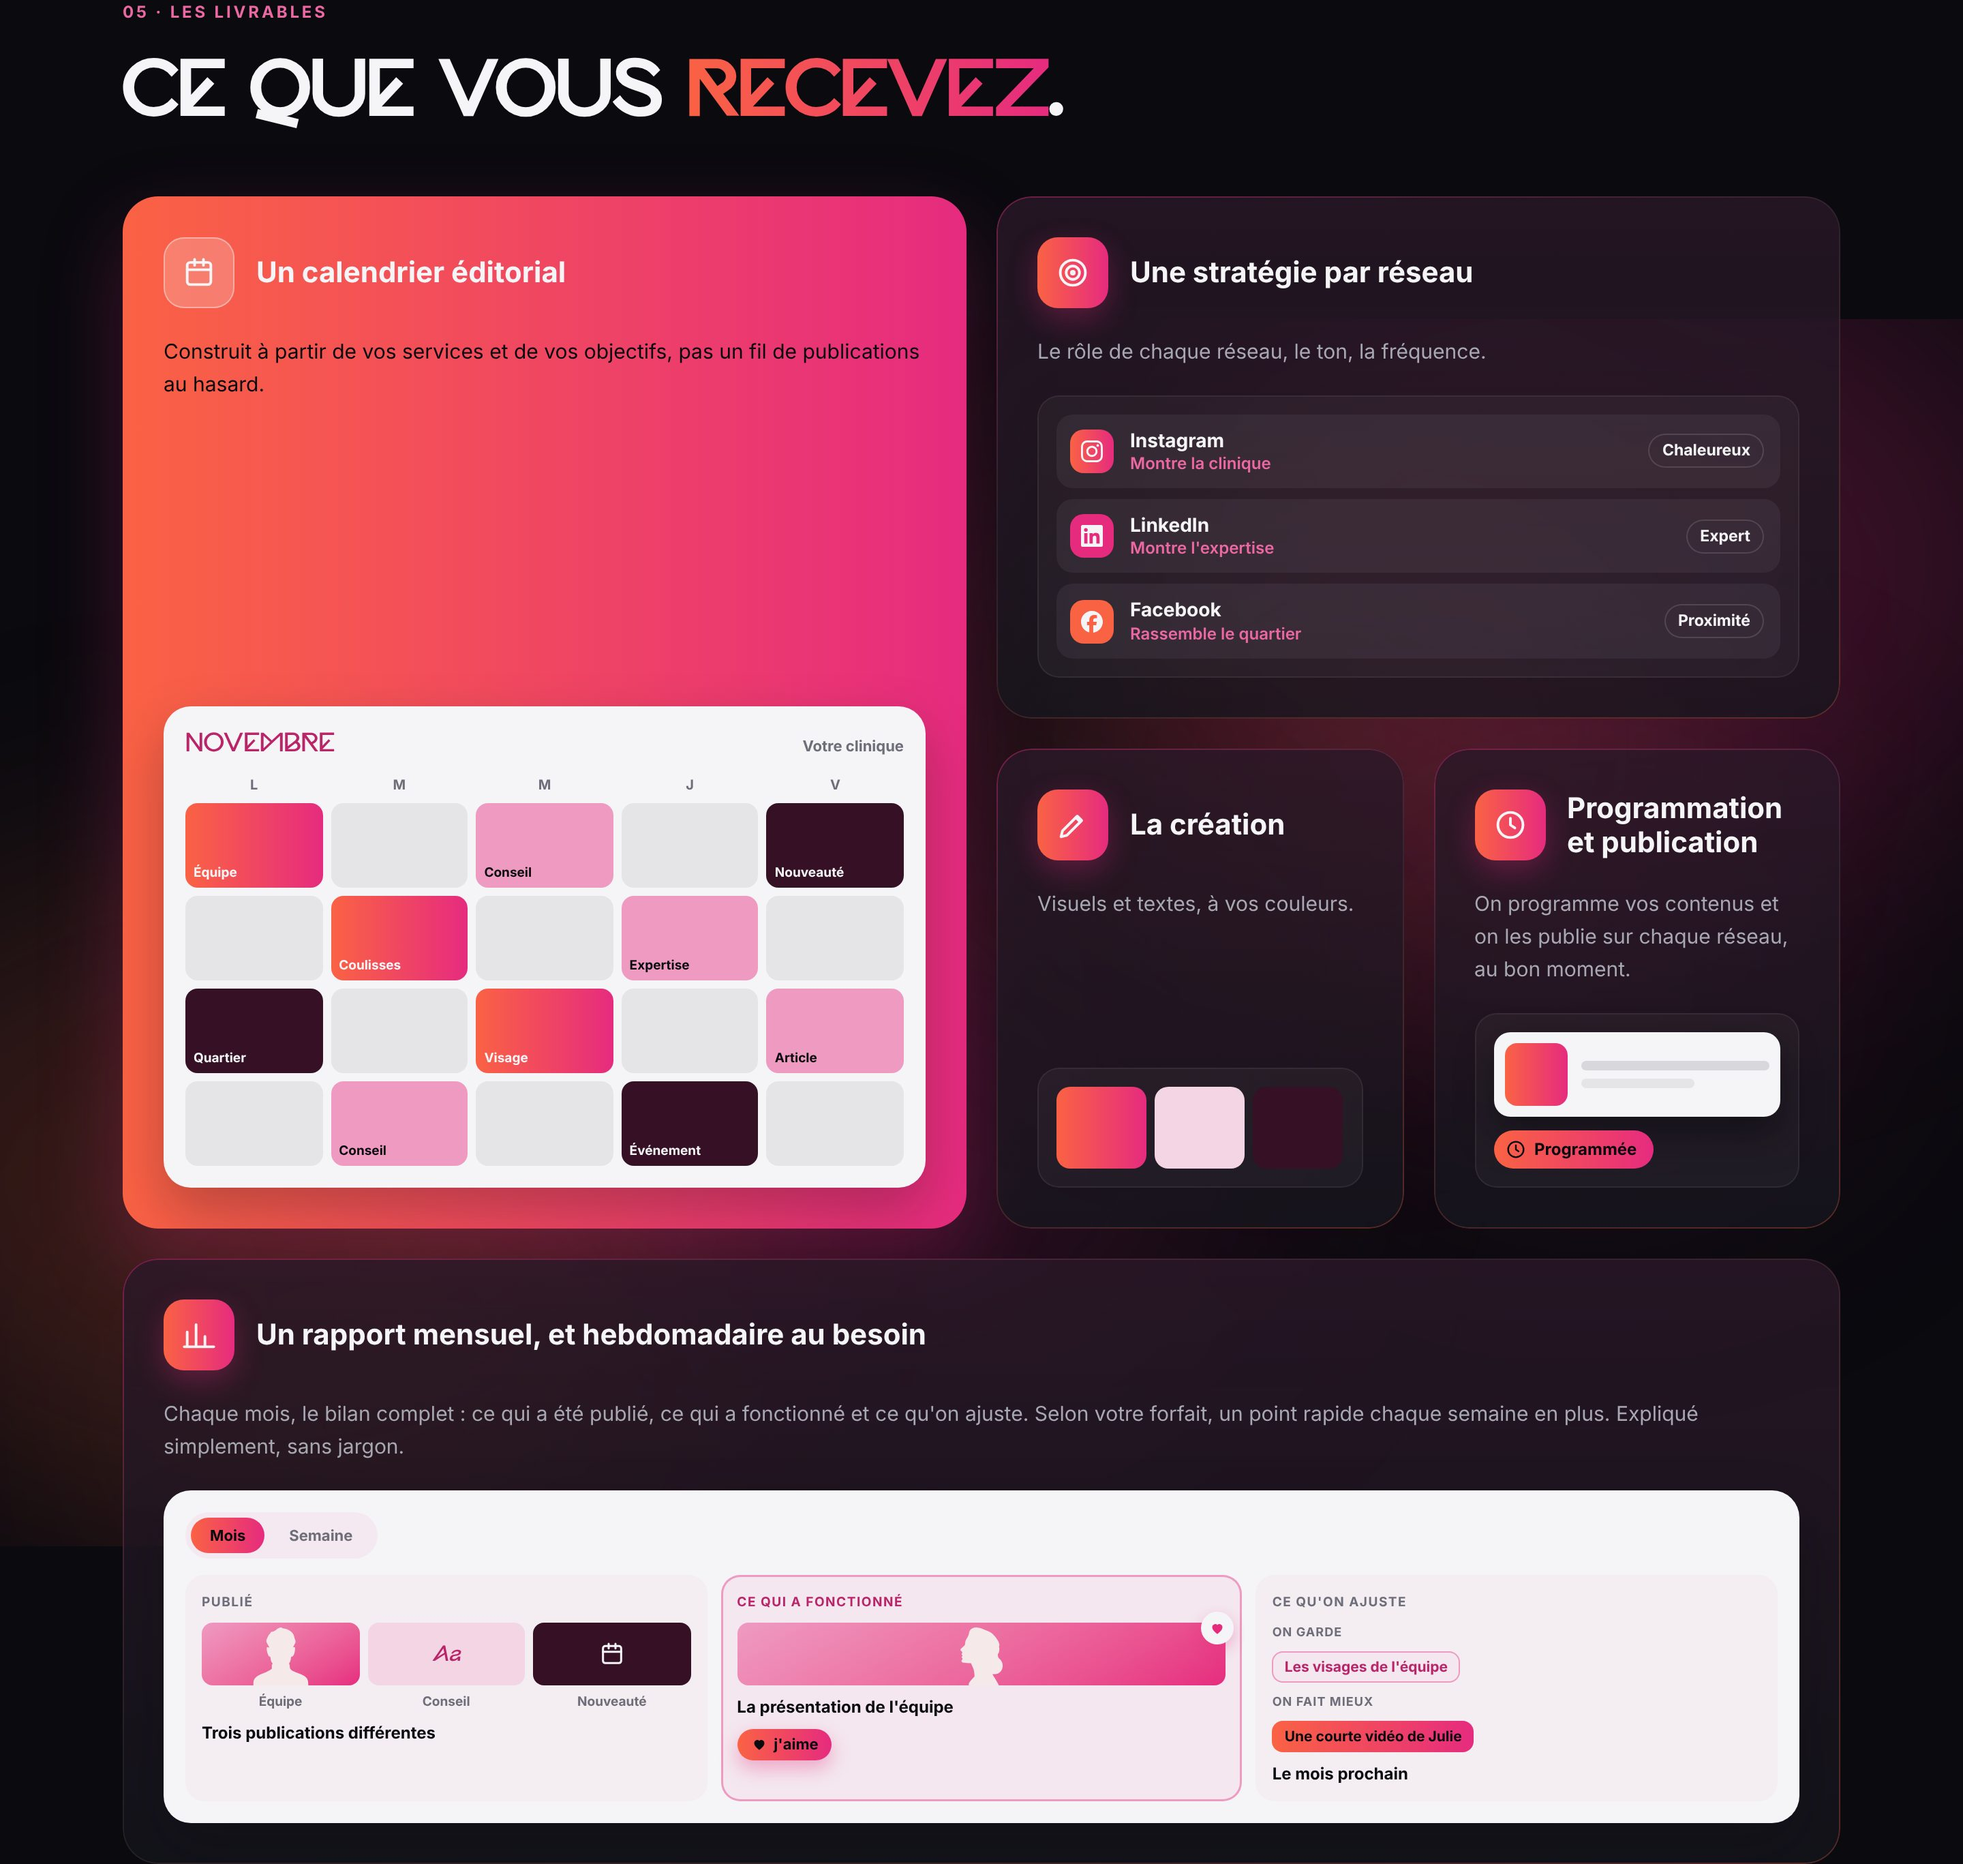
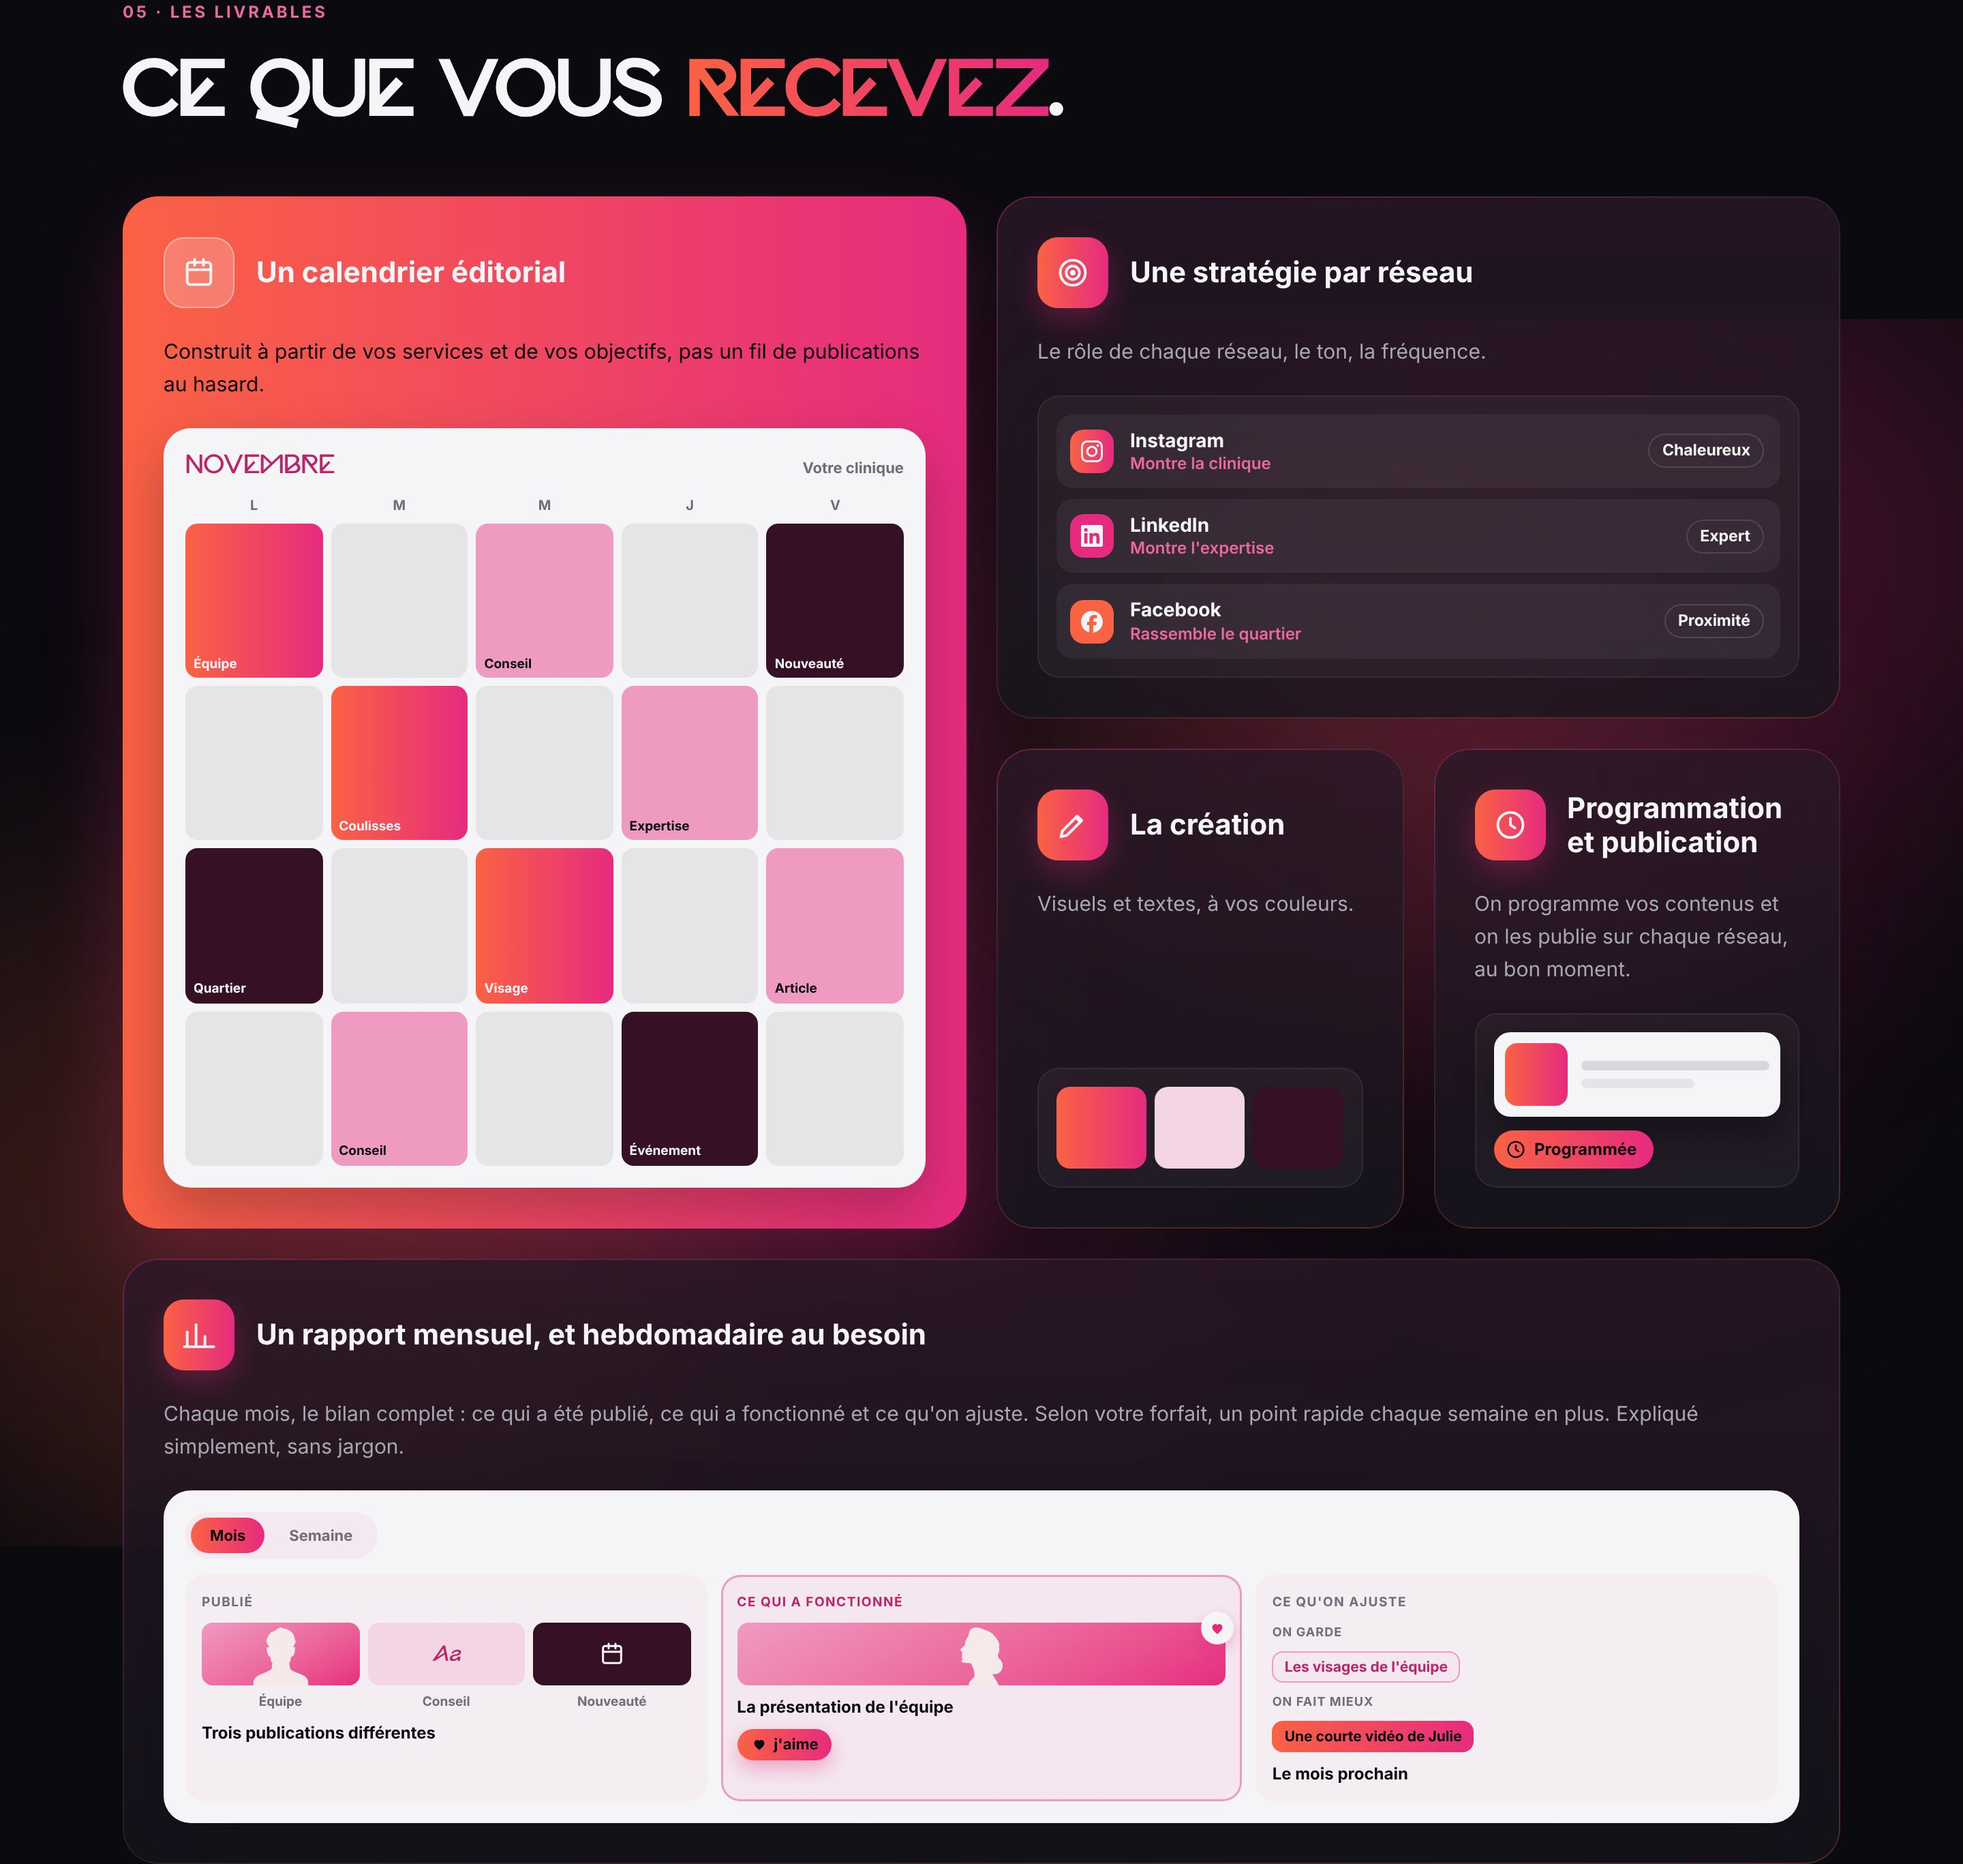
Réseaux sociaux : calendrier qui remplit sa carte ; Publicité « Fait venir »
- Section 05, carte « Un calendrier éditorial » : dès 1100 px, la hauteur de
  la carte vient des cartes voisines ; le calendrier (4 semaines, sans
  légende ni chiffre) remplit l'espace entre le texte et le bas de la carte,
  avec le même écart (20 px) et la même marge du bas (30 px) que les autres
  cartes. Ses cases s'agrandissent. Rendu inchangé en dessous de 1100 px.
- services.ts : libellé court de Publicité Google et Meta « Fait venir »
  (comme la carte du cycle) au lieu de « Amène le patient ».
- Captures : section 05 (1440, 390), menu Services ouvert (1440, burger 390).

Claude-Session: https://claude.ai/code/session_01QiN6EySn9mq7CcZSVSJmys

Changed region(s): [[0.0625, 0.2176, 0.5, 0.5907]]

diff --git a/src/data/services.ts b/src/data/services.ts
@@ -53,7 +53,7 @@ export const SERVICES: Service[] = [
     key: 'publicite',
     label: 'Publicité Google et Meta',
     role: 'Fait venir',
-    hint: 'Amène le patient',
+    hint: 'Fait venir',
     href: '/publicite-google-meta/',
     icon: ICONS.megaphone,
   },
